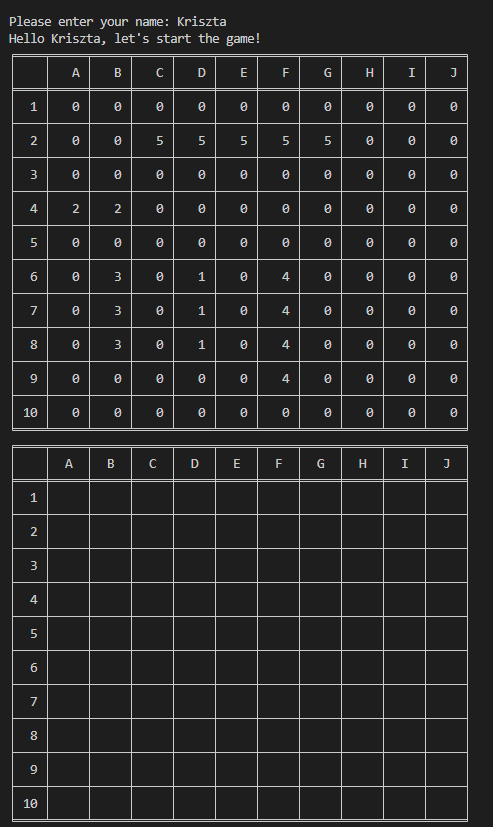
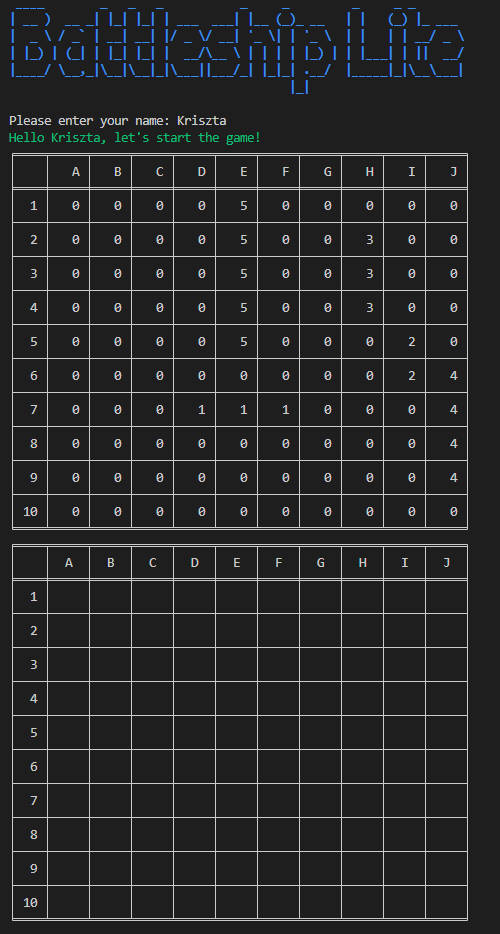
readme update: end game feature added, implementation plan updated, minor change in code

Changed region(s): [[0.0, 0.0, 0.9432, 0.9976]]

diff --git a/src/battleship.py b/src/battleship.py
@@ -48,6 +48,7 @@ class Game_map:
             os.system('clear')
         else:
             os.system('cls||clear')
+        cprint(figlet_format('Battleship Lite'), 'blue', attrs=['bold'])
         print(tabulate(player_game_map, headers=headers, tablefmt='fancy_grid',
               showindex=range(1, self.rows + 1), stralign='center'))
         print(self.msg)
@@ -230,7 +231,7 @@ class Player:
                 cprint('The name is not valid!', 'red')
                 continue
         cprint(f'Hello {self.name}, let\'s start the game!', 'green')
-        time.sleep(3)
+        time.sleep(1)
 
     # handle shot coordinates ask for user input about the coordinates
     # translate given coordinates to 2D list indexes
@@ -240,8 +241,8 @@ class Player:
     def handle_shot_coordinates(self, map):
         while map.check_any_ship_alive():
             try:
-                coordinates = input('Please enter a coordinate (i.e.: A,5) or '
-                                    + 'x to exit: ')
+                coordinates = input('Please enter the coordinates (i.e.: A,5) '
+                                    + 'or an x to exit: ')
                 if coordinates == 'x' or coordinates == 'X':
                     sys.exit('You chose to exit the game. Bye!')
                 else:
@@ -290,6 +291,7 @@ def main():
     game_map.add_ships()
 
     # to visually test if the ships were placed, run the commented code below
+    # do not forget to comment out the screen clear in print_user_game_map()
     # game_map.print_game_map()
 
     game_map.print_user_game_map()

diff --git a/README.md b/README.md
@@ -49,7 +49,7 @@ Battleship Lite is a solo game, played on a 10 * 10 map (grid), each grid square
 * Destroyer (2)
 
 It is important to note that the ships can not overlap, can not hang off the map and they are hidden from the Player.
-After the map is built and ships are arranged on the map, the Player can start the discovery of the ships by shooting to a target. The application provides feedback (graphically on the map and via textual information below the map) about the result of the shot (i.e.: hit or miss or already shot). The game continues until all of the ships were discovered or the Player type 'x'.
+After the map is built and ships are arranged on the map, the Player can start the discovery of the ships by shooting to a target. The application provides feedback (graphically on the map and via textual information below the map) about the result of the shot (i.e.: which ship was hit, how much life the ship still have or if the given ship was sunk or missed or already shot). The game continues until all of the ships were discovered or the Player type 'x'.
 
 # Source control repository
 
@@ -63,7 +63,7 @@ After the map is built and ships are arranged on the map, the Player can start t
 
 ## 1. Greeting player
 
-When the player starts the game, the player name is asked and checked for validity (the name can contain lower and upper cases, numbers, space, underscore, hyphen and it needs to be between 2 and 25 character long). After a valid user name is given the player is greeted by the application. And the program prints out the map.
+When the player starts the game, an ascii art is printed, then the player name is asked and checked for validity (the name can contain lower and upper cases, numbers, space, underscore, hyphen and it needs to be between 2 and 25 character long). After a valid user name is given the player is greeted by the application. And the program prints out the map.
 
 ## 2. Game Map creation and printing
 
@@ -106,6 +106,14 @@ Let's see how these two features work together with the previous ones.
 4. While I was shooting around I found a battleship as well, then I made my last shot to **d,10** and it was a **miss**.
 
 ![Shoot ships](./docs/ship_shooting.png)
+
+## 6. End game
+
+End game is implemented in different methods (might not qualify as a separate feature), however it is a user story from the perspective of the player, hence I included it here. The purpose of the end game feature is to manage when the player wants to exit from the game before the game ends or the game must end when all ships were sunk. Depending on the exit condition (simple exit or end of game), a separate messages are printed out to the player.
+
+|Exit game  | End of the game, ships were shot out  |
+|------------------ | --------------------- |
+| ![Exit message](./docs/game_exit.png) | ![win message](./docs/end_game.png) |
 
 # Implementation plan
 
@@ -167,6 +175,10 @@ Trello Board on 12/12/2022, showing that the Place ships card was done.
 
 ![Trello Board 121222](./docs/221212TrelloBoard.png)
 
+I added an optional card to my trello board, it contains optional ideas that are not mandatory for the application to work, but they would be nice to haves.
+
+![Optional Card](./docs/221212OptinalsCard.png)
+
 Trello Board on 13/12/2022, showing that the Shoot card was placed on the ongoing column card was done.
 
 ![Trello Board 131222](./docs/221213TrelloBoard.png)
@@ -184,5 +196,27 @@ An input is asked from the Player (i.e.: A,5 (column, row), this input needs to 
 The checklist contains all the steps necessary to ask for coordinates from the player, if coordinates are not valid handle errors and to translate valid coordinates to the language that the 2D list (game map) understands.
 
 ![Shoot Card 131222](./docs/221213ShootCard.png)
+
+The end game card defines in the description the user story and additional information.
+
+```txt
+who: As a Player
+Functionality: I want to end the game any time or want the game end when I sank all of the ship.
+Benefit: so I can quit.
+
+Naturally there are two ways to end the game, one is when the Player quit during the game, the other is when the Player has hit all the ships. 
+```
+
+The checklist contains all the steps necessary to check the user input if that an x, write message and exit the game, in case there is no ships alive display the congratulation message and exit the game.
+
+![End game Card 1412222](./docs/221214EndGameCard.png)
+
+Most of the nice to have ideas were implemented in the game, such as ASCII art, some colors, meaningful messages at shots and statistics at the end of the game.
+
+![Optional Card](./docs/221214OptionalCard.png)
+
+Trello Board on 14/12/2022, showing that the features and optionals(most of them) were done. Bash script writing and documentation are ongoing tasks.
+
+![Trello Board 141222](./docs/221214%20TrelloBoard.png)
 
 # Help documentation
